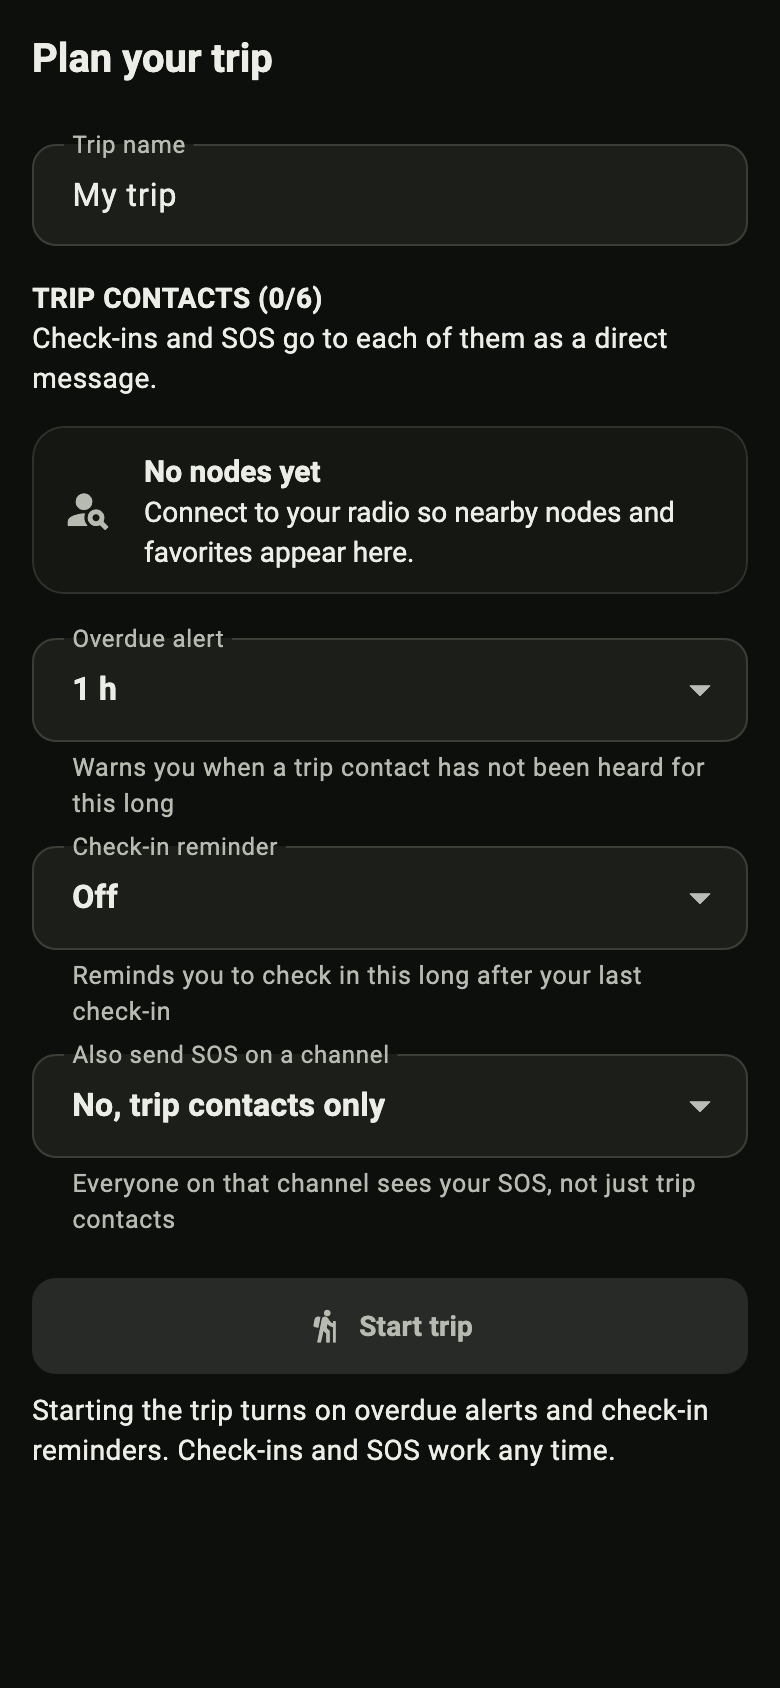
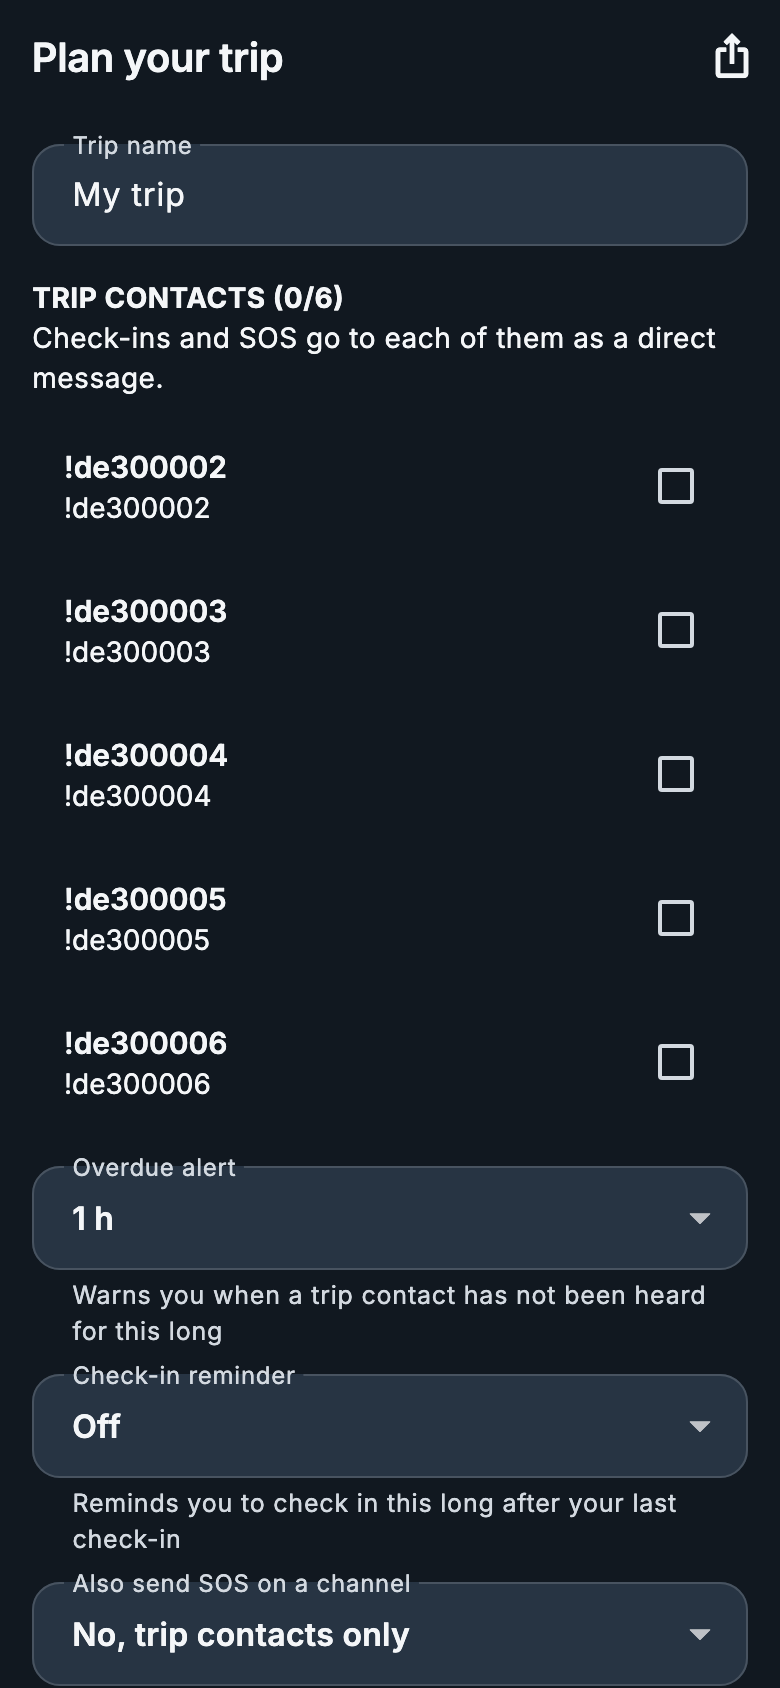
docs: refresh README and screenshots for beta.17
README now matches main and v1.0.0-beta.17: Android, macOS and Windows
downloads, iOS CI-only, Bluetooth/Wi-Fi/USB, demo mode, features shipped
in beta.5-beta.17, what has and hasn't been checked on hardware.

Screenshots are re-rendered by the preview test, which now loads the
app's bundled Inter and JetBrains Mono fonts and switches to the demo
radio so tabs show a populated mesh.

diff --git a/test/preview/screens_preview_test.dart b/test/preview/screens_preview_test.dart
@@ -2,7 +2,8 @@
 // with real fonts.
 // Skipped unless PREVIEW_OUT is set:
 //   PREVIEW_OUT=docs/screenshots flutter test test/preview
-// No radio is connected, so tabs show their not-yet-connected state.
+// Screens use the built-in demo radio (BastionDemoRadio), so they show a
+// pretend mesh instead of the not-yet-connected state.
 import 'dart:io';
 import 'dart:ui' as ui;
 
@@ -13,6 +14,7 @@ import 'package:bastion/main.dart';
 import 'package:bastion/phone_backup_page.dart';
 import 'package:bastion/privacy_page.dart';
 import 'package:bastion/radio_backup_page.dart';
+import 'package:bastion/services/bastion_demo_radio.dart';
 import 'package:bastion/services/meshtastic_radio_coordinator.dart';
 import 'package:bastion/trip_page.dart';
 import 'package:bastion/services/bastion_preferences.dart';
@@ -40,6 +42,13 @@ Future<void> _loadFonts() async {
     for (final w in ['Light', 'Regular', 'Medium', 'Bold', 'Black']) '$fonts/Roboto-$w.ttf',
   ]);
   await load('MaterialIcons', ['$fonts/MaterialIcons-Regular.otf']);
+  // The app's own bundled fonts (NxFonts).
+  await load('Inter', [
+    for (final w in ['Regular', 'Medium', 'SemiBold', 'Bold']) 'assets/fonts/Inter-$w.ttf',
+  ]);
+  await load('JetBrains Mono', [
+    for (final w in ['Regular', 'Medium', 'SemiBold', 'Bold']) 'assets/fonts/JetBrainsMono-$w.ttf',
+  ]);
 }
 
 void main() {
@@ -82,7 +91,7 @@ void main() {
       tester.view.devicePixelRatio = 2;
       tester.view.physicalSize = const Size(780, 1688);
       addTearDown(tester.view.reset);
-      final radio = MeshtasticRadioCoordinator();
+      final radio = BastionDemoRadio();
       addTearDown(radio.dispose);
       final boundary = GlobalKey();
       await tester.pumpWidget(RepaintBoundary(key: boundary, child: MaterialApp(localizationsDelegates: AppLocalizations.localizationsDelegates, supportedLocales: AppLocalizations.supportedLocales, 
@@ -115,14 +124,22 @@ void main() {
       final boundary = GlobalKey();
       await tester.pumpWidget(RepaintBoundary(key: boundary, child: const BastionApp()));
       await tester.pumpAndSettle();
+      // Switch to the demo radio from the Home tab's "Try the demo".
+      await tester.tap(find.byIcon(Icons.play_circle_outline).first);
+      await tester.pumpAndSettle();
       for (final tab in tabs.entries) {
         await tester.tap(find.byIcon(tab.key).last);
         await tester.pumpAndSettle();
+        if (tab.value == 'nodes') {
+          // Bring the demo mesh's node list to the top of the screen.
+          await tester.dragFrom(const Offset(195, 600), const Offset(0, -520));
+          await tester.pumpAndSettle();
+        }
         await tester.runAsync(() async {
           final ro = boundary.currentContext!.findRenderObject()! as RenderRepaintBoundary;
           final image = await ro.toImage(pixelRatio: 2);
           final png = await image.toByteData(format: ui.ImageByteFormat.png);
-          final suffix = theme == 'blaze' ? '' : '_$theme';
+          final suffix = switch (theme) { 'blaze' => '', 'bare_beauty' => '_light', _ => '_$theme' };
           File('$out/${tab.value}$suffix.png')
             ..createSync(recursive: true)
             ..writeAsBytesSync(png!.buffer.asUint8List());

diff --git a/README.md b/README.md
@@ -13,102 +13,108 @@ NOTORYX Connect pairs your phone with a radio over Bluetooth so you can message,
 > **Independent project:** NOTORYX Connect (formerly Bastion) is not affiliated with, sponsored by, endorsed by, or an official application of Meshtastic LLC.
 
 <p align="center">
-  <img src="docs/screenshots/home.png" width="200" alt="Home tab: field console, trip plan, check-in and hold for SOS">
-  <img src="docs/screenshots/nodes.png" width="200" alt="Nodes tab: scan for radios and connect">
-  <img src="docs/screenshots/chats.png" width="200" alt="Chats tab: channel and direct messages with quick replies">
-  <img src="docs/screenshots/tools.png" width="200" alt="Tools tab: field tools and deployment checklist">
+  <img src="docs/screenshots/home.png" width="200" alt="Home tab: field console with the demo radio connected, check-in and hold for SOS">
+  <img src="docs/screenshots/nodes.png" width="200" alt="Nodes tab: the demo mesh's node list with last-heard and favorites filters">
+  <img src="docs/screenshots/chats.png" width="200" alt="Chats: new message with channel picker, Send later and quick replies">
+  <img src="docs/screenshots/tools.png" width="200" alt="Tools: connection doctor, timeline, checklists and automations">
 </p>
 <p align="center">
   <img src="docs/screenshots/trip.png" width="200" alt="Plan your trip: contacts, overdue alert and check-in reminder">
   <img src="docs/screenshots/beacons.png" width="200" alt="Mesh beacons heard, and sending one by hand">
-  <img src="docs/screenshots/discovery.png" width="200" alt="Local mesh discovery planner">
-  <img src="docs/screenshots/settings.png" width="200" alt="Settings: appearance, units, filters and messages">
+  <img src="docs/screenshots/field_records.png" width="200" alt="Field records: incident log, templates, coverage and bot safeguards">
+  <img src="docs/screenshots/settings.png" width="200" alt="Settings: themes, language, units, privacy and backups">
 </p>
 <p align="center">
-  <img src="docs/screenshots/field_records.png" width="200" alt="Field records: incident log, templates, coverage and bot safeguards">
   <img src="docs/screenshots/privacy.png" width="200" alt="Privacy and data: what's stored and what's sent">
   <img src="docs/screenshots/radio_backup.png" width="200" alt="Encrypted radio backup">
-  <img src="docs/screenshots/home_light.png" width="200" alt="Home tab in the light theme">
+  <img src="docs/screenshots/home_light.png" width="200" alt="Home tab in the light Bare Beauty theme">
+  <img src="docs/screenshots/nodes_light.png" width="200" alt="Nodes tab in the light Bare Beauty theme">
 </p>
 
-> NOTORYX Connect is a beta. It has been checked on one radio (a Seeed T1000-E) and in automated tests, not yet on a wide range of phones, radios and firmware versions. Don't rely on it as your only way to call for help. Please [report issues](../../issues).
+<sub>Screenshots are rendered from the app's built-in demo mode (a pretend radio and mesh), not a live radio.</sub>
+
+> **Status (2026-11-15):** the latest release is **v1.0.0-beta.17** (version 1.0.0, build 21). It is a test beta. Beta.16 and beta.17 were checked on one phone (a Samsung Galaxy A15) with one radio (a Seeed T1000-E running Meshtastic firmware). Many features (USB, Wi-Fi, two-way ATAK, MQTT proxy, remote admin, offline map files, Windows and macOS builds) have automated tests but have not yet been checked on a range of phones, radios and firmware versions. Don't rely on it as your only way to call for help. Please [report issues](../../issues).
 
 ## Download
 
-Get the latest beta from **[NOTORYX Connect releases](https://github.com/TheLogsAreScreaming/notoryx-connect-releases/releases)**. Each release lists what changed and includes a `SHA256SUMS.txt` file for checking your download.
+Get the latest beta from **[NOTORYX Connect releases](https://github.com/TheLogsAreScreaming/notoryx-connect-releases/releases)**. Betas are marked as pre-releases. Each release lists what changed and includes checksum files for checking your download.
 
 | Platform | File | Notes |
 |---|---|---|
-| Android (ARM64 phones) | `NOTORYX-Connect-<version>-<build>.apk` | Signed with the release key |
+| Android (ARM64 phones) | `NOTORYX-Connect-<version>-<build>.apk` | Signed with the release key. Checksums in `SHA256SUMS.txt`, signing details in `SIGNATURE.txt` |
+| macOS (Intel and Apple silicon) | `NOTORYX-Connect-<version>-<build>-macOS-universal.zip` | Not notarized: right-click the app and choose **Open** the first time |
+| Windows (64-bit) | `NOTORYX-Connect-<version>-<build>-Windows-x64-setup.exe` or `-Windows-x64.zip` | Installs for your user, no admin needed. Not code signed, so SmartScreen warns on first launch |
 | Google Play | `NOTORYX-Connect-<version>-<build>.aab` | For the Play Console, not for installing directly |
 
-A universal macOS build (Intel and Apple silicon) can be built with the **NOTORYX macOS Build** workflow but isn't released yet.
+iOS is built in CI (unsigned) but isn't released. App Store distribution waits on an Apple developer account and a GPL licensing question; see [docs/APP-STORE.md](docs/APP-STORE.md).
 
 ### Install on Android
 
 1. On your phone, open the release and download the `.apk`.
 2. Open the file. If Android asks, allow installs from your browser or file manager.
 3. Open NOTORYX Connect and allow **Bluetooth**, **location** and **notifications** when asked.
+4. For a steady background link, set the app's battery use to **Unrestricted** (**Settings → Background connection** shows how).
 
 Newer betas install over older ones and keep your data. Don't uninstall first.
 
-**Upgrading from v0.1.3-beta.1 or earlier:** the app ID changed from `org.backcountrysignal.bastion` to `com.bastionmesh.connect`, so the next release installs as a separate app instead of updating the old one. Before switching, make a backup in the old app (**Settings → Phone data backup / restore**, and **Encrypted radio backup / restore** if you want one), install the new app, restore the backup there, then uninstall the old app. You only do this once.
+**Upgrading from v0.1.3-beta.1 or earlier:** the app ID changed from `org.backcountrysignal.bastion` to `com.bastionmesh.connect`, so the new app installs separately instead of updating the old one. Make a backup in the old app (**Settings → Phone data backup / restore**), install the new app, restore the backup there, then uninstall the old app. You only do this once.
 
 ## Getting started
 
-1. **Connect your radio.** On **HOME**, tap **Connect radio**, or on **NODES**, tap **Scan for radios**, then **Connect** next to your radio. NOTORYX Connect checks the Meshtastic service, runs the PhoneAPI handshake and syncs the node list before it marks the session ready. It reconnects on its own if the link drops.
-2. **Send a message.** On **CHATS**, pick **Broadcast** or a node, choose a channel and send. Messages typed while you're offline are queued and sent when the radio is back.
-3. **Check your radio's settings.** **SETTINGS → Radio configuration** shows the node's identity, LoRa settings, channels and modules, and every change is read back from the radio to confirm it saved.
-4. **Plan your trip.** On **HOME**, add up to 6 trip contacts. **Check in** sends them your status, position and battery, and **Hold for SOS** repeats a call for help until one of them answers.
-5. **Prepare for the field.** **TOOLS** has the deployment checklist, battery runtime estimate, incident log, message templates and mesh beacons.
+1. **No radio yet?** On **Home**, tap **Try the demo** to explore the app with a pretend radio and mesh. Nothing is sent and your own data is left alone.
+2. **Connect your radio.** On **Home**, tap **Connect radio**, or on **Nodes**, scan and tap **Connect**. Bluetooth, Wi-Fi (TCP port 4403) and USB (OTG cable) are supported. NOTORYX Connect checks the Meshtastic service, runs the PhoneAPI handshake and syncs the node list before it marks the session ready, and reconnects on its own if the link drops. If something goes wrong, **Tools → Connection doctor** walks through the likely causes.
+3. **Send a message.** On **Chats**, pick a channel or a node and send. Messages typed while you're offline are queued and sent when the radio is back.
+4. **Check your radio's settings.** **Settings → Radio configuration** shows the node's identity, LoRa settings, channels and modules. Every change is read back from the radio to confirm it saved.
+5. **Plan your trip.** On **Home**, add up to 6 trip contacts and run **Trip readiness**. **Check in** sends them your status, position and battery, and **Hold for SOS** repeats a call for help until one of them answers.
 
 ## Features
 
-### Trip safety (HOME)
-- **Field console** with radio status, node count and battery.
-- **Plan your trip:** up to 6 trip contacts, an overdue alert and a check-in reminder.
-- **Check in** with one tap (I'm OK, At camp, Delayed, Heading back). It goes to every trip contact as a direct message with time, position and battery, shows who it reached, and resends to the rest.
-- **Hold for SOS** (2 seconds, or a confirmation with TalkBack). It sends to your trip contacts and optionally a channel, repeats every 5 minutes up to 12 times, stops when a contact answers, and **I'm safe** sends an all-clear.
+### Trip safety
+- **Field console** with radio status, node count and battery, plus a home-screen widget and a Quick Settings tile.
+- **Plan your trip:** up to 6 trip contacts, an overdue alert, a check-in reminder, and a trip plan you can share.
+- **Trip readiness** check before you leave: radio, battery, firmware, channels, SOS channel, position, background limits and when each trip contact was last heard.
+- **Check in** with one tap (I'm OK, At camp, Delayed, Heading back). It goes to every trip contact as a direct message with time, position and battery, and the **check-in delivery map** shows who it reached.
+- **Hold for SOS** sends to your trip contacts and optionally a channel, repeats while respecting the channel's airtime, stops when a contact answers, and **I'm safe** sends an all-clear.
+- **Team view:** each trip contact's freshness, distance, direction and battery, 24-hour trails, **day replay** of team positions, **zone alerts** when people arrive or leave, and **off-route alerts**.
 
 ### Messaging
-- Channel and direct messages with delivery states from routing acknowledgments, and a thread for each node.
-- Offline queue: messages wait on the phone and send when the radio reconnects.
-- Search across all saved messages, including queued ones.
-- Quick replies (On my way, Need assistance, What is your position?) and check-in, assistance and all-clear templates that you review before sending.
-- Chat history, queue and node list are kept separately for each radio you use.
-- Emoji reactions, a draft kept for each conversation, and a **via MQTT** label on messages that came over the internet.
-- **Ignore** or **mute** a node, and hide messages containing words you choose (whole words, any language). An SOS reply from a trip contact is never missed, even if you ignored them.
-- Optional automatic deletion of old channel messages (direct messages are kept), and reading new messages aloud.
-- App-icon shortcuts: Check in / SOS, Chats, Nodes and Map.
-- Optional **Bot Mode** with an away reply, quiet hours, reply limits and loop protection.
+- Channel and direct messages with delivery receipts that say whether the radio proved delivery, and hop count, signal and relay on each message.
+- Offline queue, **forward** and **send later**, a draft kept for each conversation, and an airtime estimate while you type.
+- Emoji reactions (tap a message), replies, @mentions, pinned messages, unread markers and date dividers.
+- Search across all saved messages. Chat history is kept in an on-phone database, separately for each radio, and can be **encrypted**.
+- Reply from the notification. **Ignore** or **mute** nodes, hide words you choose, and get a warning when a node's name looks like another's. An SOS reply from a trip contact is never missed.
+- **SALUTE** and **9-Line** report forms, check-in and assistance templates, and **Bot Mode** with quiet hours, rate limits and loop protection.
+- Optional **community moderation** (off by default): report spam, see a Flagged label on banned nodes, and appeal a ban on your own node.
 
 ### Nodes and maps
-- Node list with favorites, notes, telemetry, signal history, traceroute (with SNR for each hop) and neighbors.
-- Map of node positions and waypoints. OpenStreetMap areas you've viewed stay cached offline for a year.
-- **Team view:** each trip contact's freshness, distance, direction and battery, with position age on their pins.
-- **Trails** of where your trip contacts (and you) have been over the last 24 hours.
-- **Export GPX** of waypoints and trails for other mapping apps.
-- **Units:** miles and feet, or kilometers and meters (picked from your region by default).
-- **Mesh beacons:** see the beacons your radio hears, join a channel a beacon offers after reviewing it, or send one by hand.
-- **Local mesh discovery** (read-only for now): plan a listen across LoRa presets and see the nodes your radio has already heard.
-- Opt-in phone GPS sharing, with optional rounding of your shared position (about 360 m, 1.5 km or 6 km).
+- **NodeVault:** every node your radios have heard, with favorites, a favorites-only filter, a **node journal** (notes and tags), telemetry charts, signal history, neighbors and node-key change alerts.
+- **Traceroute** with SNR for each hop, shown on the map, plus a **network diagram** and **mesh health** (channel use and airtime).
+- Map with node positions, waypoints, rally points and routes, a coverage heatmap, and nodes your radio has forgotten. The map can also be read as a list for screen readers.
+- **Place search**, a **topo map** and a line-of-sight **link planner** (Open-Meteo elevation).
+- **Map layers** from GPX, KML or GeoJSON, **offline maps** from an MBTiles file, and GPX export of waypoints and trails. OpenStreetMap areas you've viewed stay cached offline.
+- **Mesh beacons** (which can carry a Plus Code) and **local mesh discovery**.
+- Opt-in phone GPS sharing, with position precision set for each channel.
 
 ### Radio management
-- Every config section and module can be edited through a generated settings form. Saves are allowed only on an authenticated, connected session, and each one is verified with a fresh read from the same radio.
-- Share and import channels as `meshtastic.org/e/#` links or QR codes, including camera scanning.
-- **Encrypted radio settings backup and restore** (AES-256-GCM, PBKDF2 with 600,000 iterations), with a preview and confirmation. It doesn't include device identity keys or session credentials.
+- Connect over **Bluetooth**, **Wi-Fi** or **USB**, with a firmware version check, saved radios and a Disconnect button.
+- Every config section and module can be edited through a generated form. Settings the radio can't use are greyed out with the reason, and every save is verified with a fresh read from the same radio.
+- **Remote admin** of other nodes you hold the admin key for.
+- Share and import channels as `meshtastic.org/e/#` links or QR codes.
+- **Encrypted radio settings backup** (AES-256-GCM, PBKDF2 with 600,000 iterations), identity key backup, and a checklist for moving to a new radio.
 
-### Field tools
-- Incident log, coverage observations (receiver location, SNR and RSSI) and CSV export.
-- Deployment checklist, battery runtime estimate and an RSSI field reference.
-- Local alerts on the phone: low battery on your radio or favorites, new nodes heard, and favorites going quiet.
-- Low-power field mode, which lowers GPS accuracy and update rate to save battery.
-- Background connection service on Android so the link stays up with the screen off.
+### Field tools and integrations
+- Incident log, coverage observations (receiver location, SNR and RSSI), range test, store-and-forward catch-up and CSV export.
+- Deployment checklist, offline checklists, battery runtime estimate and an RSSI field reference.
+- **Timeline** of messages, new nodes, signal changes and waypoints in one feed, and **automations**: rules that send a message, alert you or change channel when something happens.
+- Local alerts on the phone: low battery, new nodes, favorites going quiet, and changes in the mesh.
+- **Two-way ATAK** (asks before sharing positions) with map markers, and an **MQTT client proxy**.
+- Low-power field mode and a background connection service on Android.
 
-### Privacy and backups
-- **Settings → Privacy & data** explains what's stored and sent, and can delete chat history or all phone data.
-- **Encrypted phone data backup** to a file: chats and queues for every radio, NodeVault, waypoints, field records and settings. Restoring replaces everything and rolls back if it fails.
-- Light, dark and system themes, and layouts that hold up with large text.
+### Privacy, backups and look
+- No account, no analytics, no ads and no NOTORYX servers. **Settings → Privacy & data** lists what's stored and sent, and can delete chat history or all phone data.
+- Optional **app lock**, and an **encrypted phone data backup** of chats, NodeVault, waypoints, field records and settings.
+- Eight themes (Blaze, Neon Anarchy, Tactical, Pink Overload, Bare Beauty, Okabe-Ito, Night Ops and Seasonal) in the NOTORYX Core look, with Inter type and squared cards, and side tabs on tablets.
+- In English, Spanish, French and German (follows the phone language; translations are unreviewed). Layouts hold up with large text and screen readers ([accessibility audit](docs/ACCESSIBILITY_AUDIT.md)).
 
 ## Safety
 
@@ -133,19 +139,21 @@ CI generates the Android project with the Dart project name `bastion` and organi
 
 Dependency versions are locked in the committed `pubspec.lock`, and CI runs `flutter pub get --enforce-lockfile`, so every build uses the same packages. To change a dependency, edit `pubspec.yaml`, run plain `flutter pub get`, and commit the updated `pubspec.lock`.
 
-The README screenshots (the main tabs in dark and light, plus the trip, beacons, discovery, field records, privacy and backup screens) are rendered by `test/preview/screens_preview_test.dart`:
+The README screenshots (the main tabs in the Blaze and Bare Beauty themes, plus the trip, beacons, discovery, field records, privacy and backup screens) are rendered by `test/preview/screens_preview_test.dart` with the app's own fonts and the demo radio:
 
 ```sh
 PREVIEW_OUT=docs/screenshots flutter test test/preview
 ```
 
-### macOS
+### macOS, Windows and iOS
 
-The **NOTORYX macOS Build** workflow (manual, also run on PRs that change the macOS build) generates the macOS project, applies `scripts/prepare_macos.py` (app name, Bluetooth/camera/location prompts, sandbox entitlements, Impeller off for Intel Macs) and builds a universal Intel + Apple silicon `NOTORYX Connect.app`, zipped as `NOTORYX-Connect-<version>-macOS-universal.zip`. It is ad-hoc signed, not notarized: on first launch, right-click the app and choose **Open**. Android-only features (background connection service, notifications) are inactive on macOS. Bundle ID `com.bastionmesh.connect` is separate from NOTORYX Core (`com.bastionmesh.bastion`), so both apps can be installed side by side.
+The **NOTORYX macOS Build** workflow generates the macOS project, applies `scripts/prepare_macos.py` (app name, Bluetooth/camera/location prompts, sandbox entitlements, Impeller off for Intel Macs) and builds a universal Intel + Apple silicon `NOTORYX Connect.app`, zipped as `NOTORYX-Connect-<version>-macOS-universal.zip`. It is ad-hoc signed, not notarized: on first launch, right-click the app and choose **Open**. Android-only features (background connection service, notifications) are inactive on macOS. Bundle ID `com.bastionmesh.connect` is separate from NOTORYX Core (`com.bastionmesh.bastion`), so both apps can be installed side by side.
+
+The **NOTORYX Windows Build** workflow builds a 64-bit Windows app as a per-user installer and a zip. The **NOTORYX iOS Build** workflow builds an unsigned iOS app to check that it compiles; **NOTORYX iOS TestFlight** is ready for when an Apple developer account is set up ([docs/APP-STORE.md](docs/APP-STORE.md)).
 
 ### Build validation and releases
 
-Pull requests and pushes run the Android CI workflow: Flutter analysis, tests, an ARM64 release APK build and a retained APK artifact. Signed candidates are built by the manual main-branch workflow and are not published automatically. A build isn't production-ready until hardware testing, release signing, dependency and license review, privacy review and release QA are done. See [release readiness](docs/RELEASE-READINESS.md), the [device test checklist](docs/DEVICE-TEST-CHECKLIST.md) and [branch/PR triage](docs/BRANCH-AND-PR-TRIAGE.md).
+Pull requests and pushes run the **NOTORYX Android CI** workflow (Flutter analysis, tests, an ARM64 release APK build and a retained APK artifact) alongside the macOS, Windows and iOS builds. Signed candidates are built by the manual **NOTORYX Signed Release Candidate** workflow from main and published by hand to [notoryx-connect-releases](https://github.com/TheLogsAreScreaming/notoryx-connect-releases/releases). A build isn't production-ready until hardware testing, release signing, dependency and license review, privacy review and release QA are done. See [release readiness](docs/RELEASE-READINESS.md), the [device test checklist](docs/DEVICE-TEST-CHECKLIST.md) and [branch/PR triage](docs/BRANCH-AND-PR-TRIAGE.md).
 
 ## App icon and artwork
 
